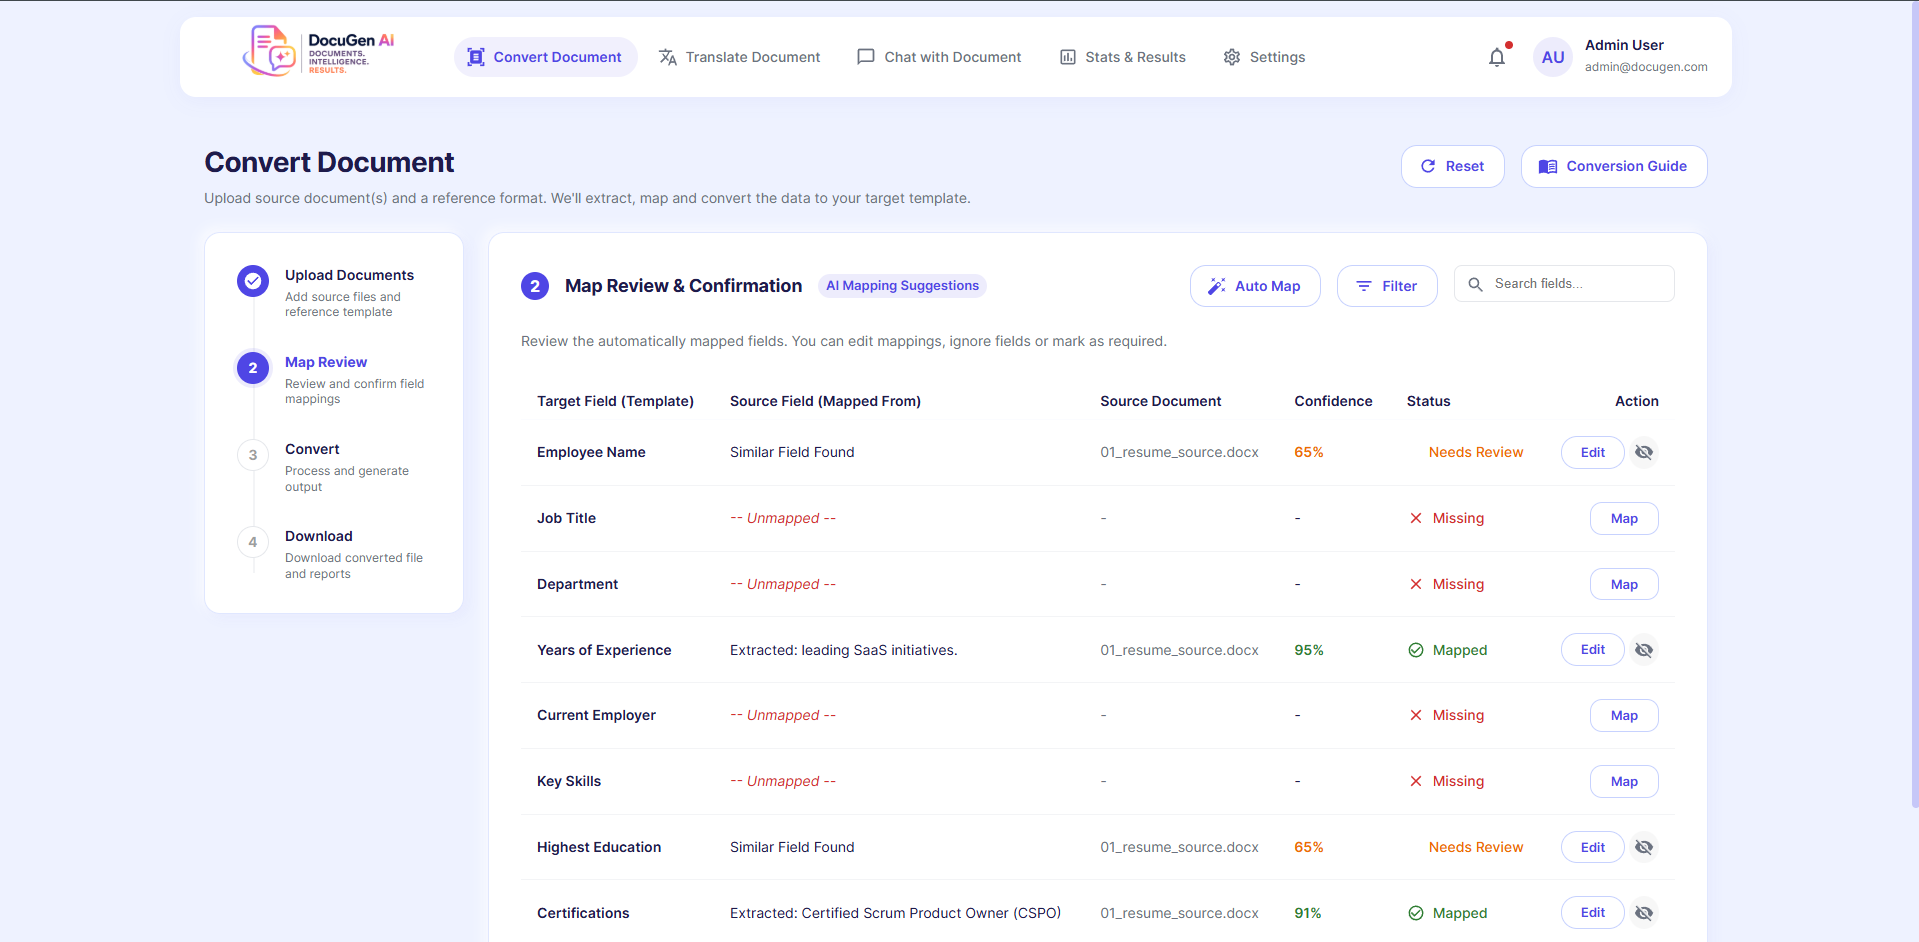
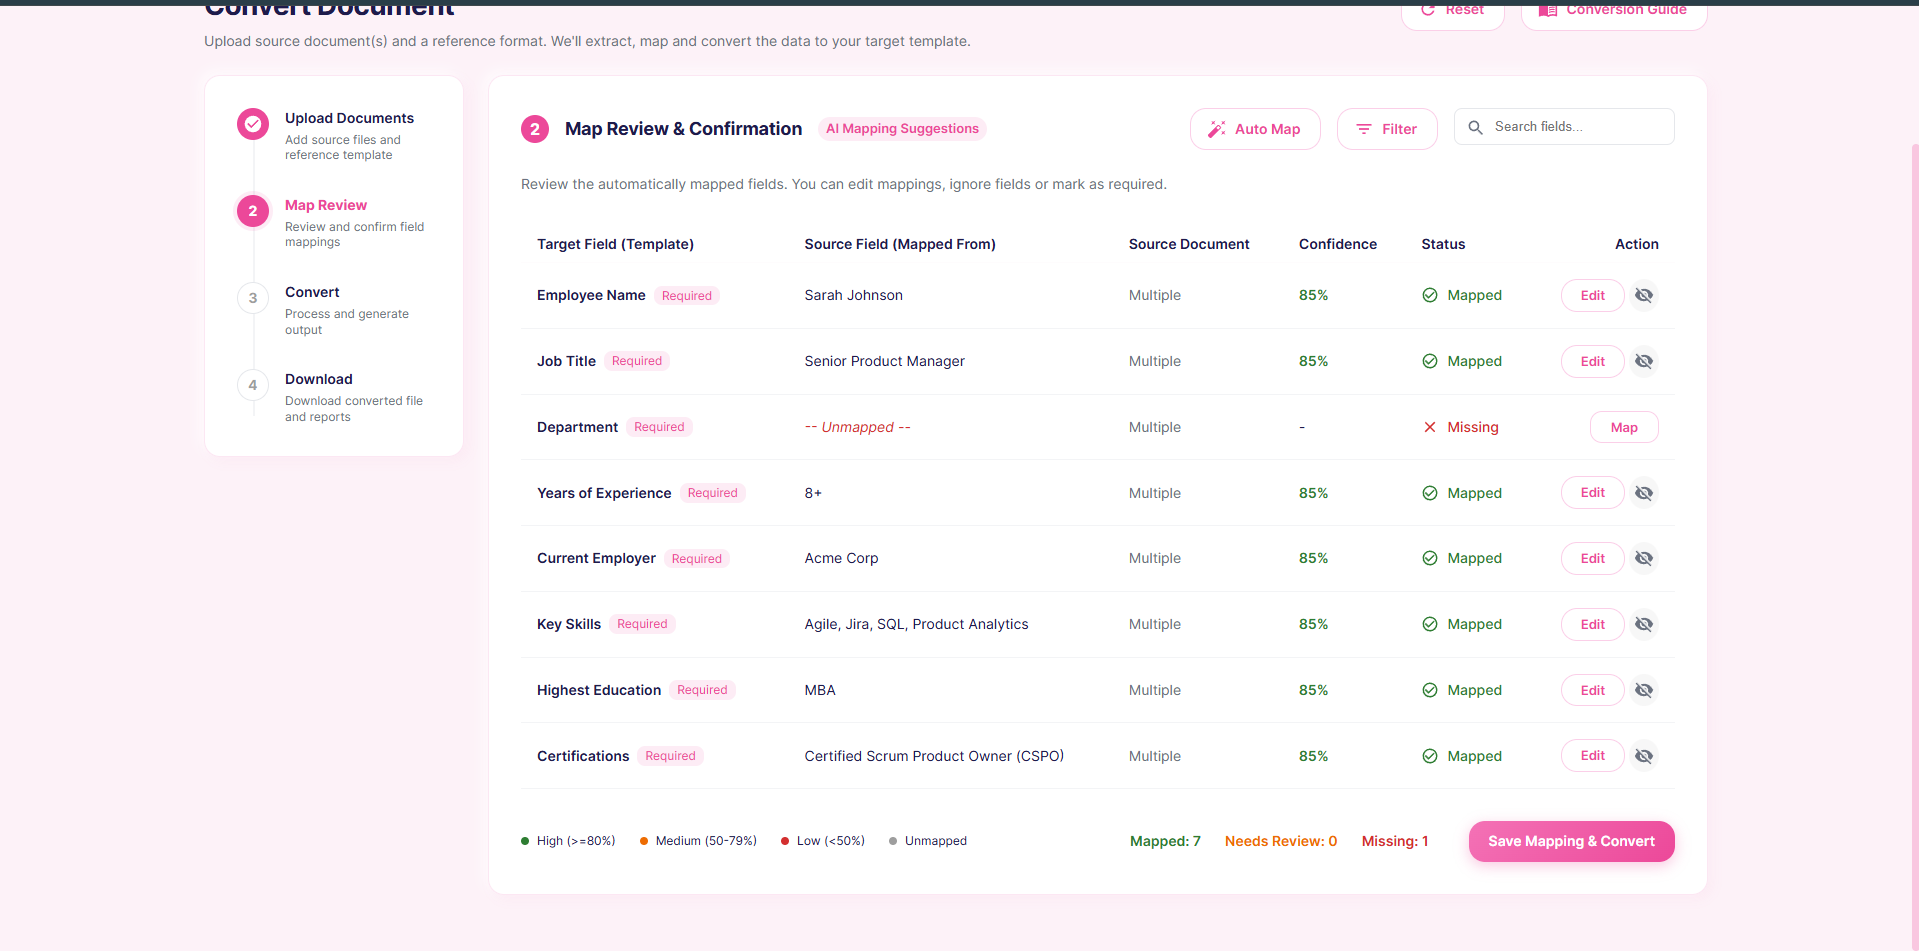
feat: implement FastAPI backend with translation services and project documentation

diff --git a/backend/app/main.py b/backend/app/main.py
@@ -988,12 +988,14 @@ async def preview_mapping(
 
     target_format = get_target_format(reference_file.filename)
 
-    # ── PPTX: use manifest-based AI preview ──
-    if target_format == "pptx":
+    # ── AI PREVIEW (pptx, xlsx, docx) ──
+    if target_format in ["pptx", "xlsx", "docx"]:
         from app.services.template_manifest import build_field_manifest
-        manifest_slots = build_field_manifest(str(reference_path))
-        if not manifest_slots:
-            manifest_slots = [{"slot_id": "fallback", "target_label": col, "hint_text": ""} for col in ["Title", "Subtitle", "Content"]]
+        manifest_slots = None
+        if target_format == "pptx":
+            manifest_slots = build_field_manifest(str(reference_path))
+            if not manifest_slots:
+                manifest_slots = [{"slot_id": "fallback", "target_label": col, "hint_text": ""} for col in ["Title", "Subtitle", "Content"]]
 
         combined_source_text = "\n\n".join([f"--- SOURCE: {sd['name']} ---\n{sd['text']}" for sd in source_data_list])
 
@@ -1026,19 +1028,56 @@ async def preview_mapping(
 
             data = json.loads(cleaned_text)
             fields = data.get("fields", {})
+            tables = data.get("tables", [])
 
-            for slot in manifest_slots:
-                target_label = slot["target_label"]
-                mapped_obj = fields.get(target_label, {})
+            # Extract target labels
+            target_labels = []
+            reference_columns = []
+            if target_format == "xlsx":
+                reference_columns = _get_reference_columns(str(reference_path))
+
+            if manifest_slots:
+                target_labels = [slot["target_label"] for slot in manifest_slots]
+            else:
+                target_labels = list(fields.keys())
+                for tbl in tables:
+                    for h in tbl.get("headers", []):
+                        if h and h not in target_labels:
+                            target_labels.append(h)
+                
+                if reference_columns:
+                    for col in reference_columns:
+                        if col not in target_labels:
+                            target_labels.append(col)
+
+            for target_label in target_labels:
+                mapped_obj = fields.get(target_label)
+                
+                # If not in fields, maybe it's in a table?
+                if mapped_obj is None and tables:
+                    for tbl in tables:
+                        headers = tbl.get("headers", [])
+                        if target_label in headers:
+                            idx = headers.index(target_label)
+                            rows = tbl.get("rows", [])
+                            if rows and len(rows[0]) > idx:
+                                mapped_obj = str(rows[0][idx])
+                            else:
+                                mapped_obj = "Table Column"
+                            break
+
+                if mapped_obj is None:
+                    mapped_obj = {}
+
                 conflicting_options = []
 
                 if isinstance(mapped_obj, str):
                     val = mapped_obj
-                    conf = 80
+                    conf = 85
                     status = "Mapped"
                     color = "success.main"
                     doc = "Multiple"
-                    if val == "[Information not found in source documents]":
+                    if val == "[Information not found in source documents]" or val == "Table Column":
                         status = "Missing"
                         color = "error.main"
                         conf = None
@@ -1093,9 +1132,16 @@ async def preview_mapping(
                 })
 
         except Exception:
-            for slot in manifest_slots:
+            # Fallback for preview failure
+            target_labels = []
+            if target_format == "pptx" and manifest_slots:
+                target_labels = [s["target_label"] for s in manifest_slots]
+            elif target_format == "xlsx":
+                target_labels = _get_reference_columns(str(reference_path))
+            
+            for label in target_labels:
                 mappings.append({
-                    "target": slot["target_label"],
+                    "target": label,
                     "req": True,
                     "source": "Preview Failed - Will run full on Convert",
                     "doc": "-",
@@ -1108,10 +1154,8 @@ async def preview_mapping(
 
         return {"mappings": mappings}
 
-    # ── NON-PPTX (xlsx, docx, txt, pdf): use fast regex-based preview ──
-    reference_columns = _get_reference_columns(str(reference_path)) if target_format == "xlsx" else ["Customer Name", "Customer ID", "Industry", "Primary Contact", "Email", "Billing Address"]
-    if not reference_columns:
-        reference_columns = ["Quarter", "Region", "Total Sales", "Date", "Prepared By"]
+    # ── NON-AI FALLBACK (txt, pdf): use fast regex-based preview ──
+    reference_columns = ["Customer Name", "Customer ID", "Industry", "Primary Contact", "Email", "Billing Address"]
 
     mappings = []
     for idx, col in enumerate(reference_columns):
@@ -1134,7 +1178,6 @@ async def preview_mapping(
         if len(found_vals) > 0:
             unique_vals = list({fv["val"] for fv in found_vals})
             if len(unique_vals) > 1:
-                # Conflict!
                 source_field = "Conflict Detected"
                 doc = "Multiple"
                 conf = 50
@@ -1155,7 +1198,6 @@ async def preview_mapping(
             color = "warning.main"
             doc = source_data_list[0]["name"] if source_data_list else "-"
 
-        # Determine the full extracted value for the edit dialog
         extracted_value = ""
         if len(found_vals) > 0:
             unique_vals_list = list({fv["val"] for fv in found_vals})
